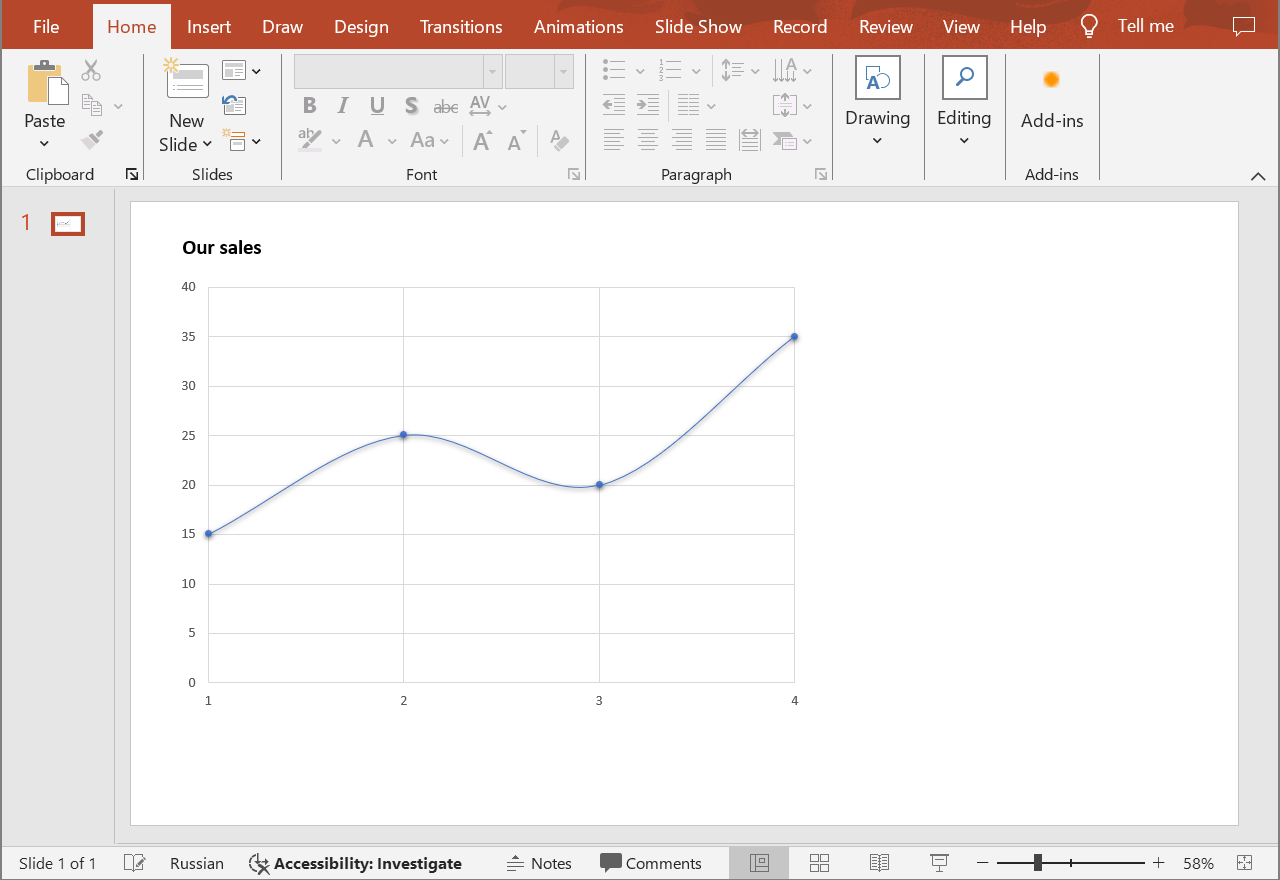
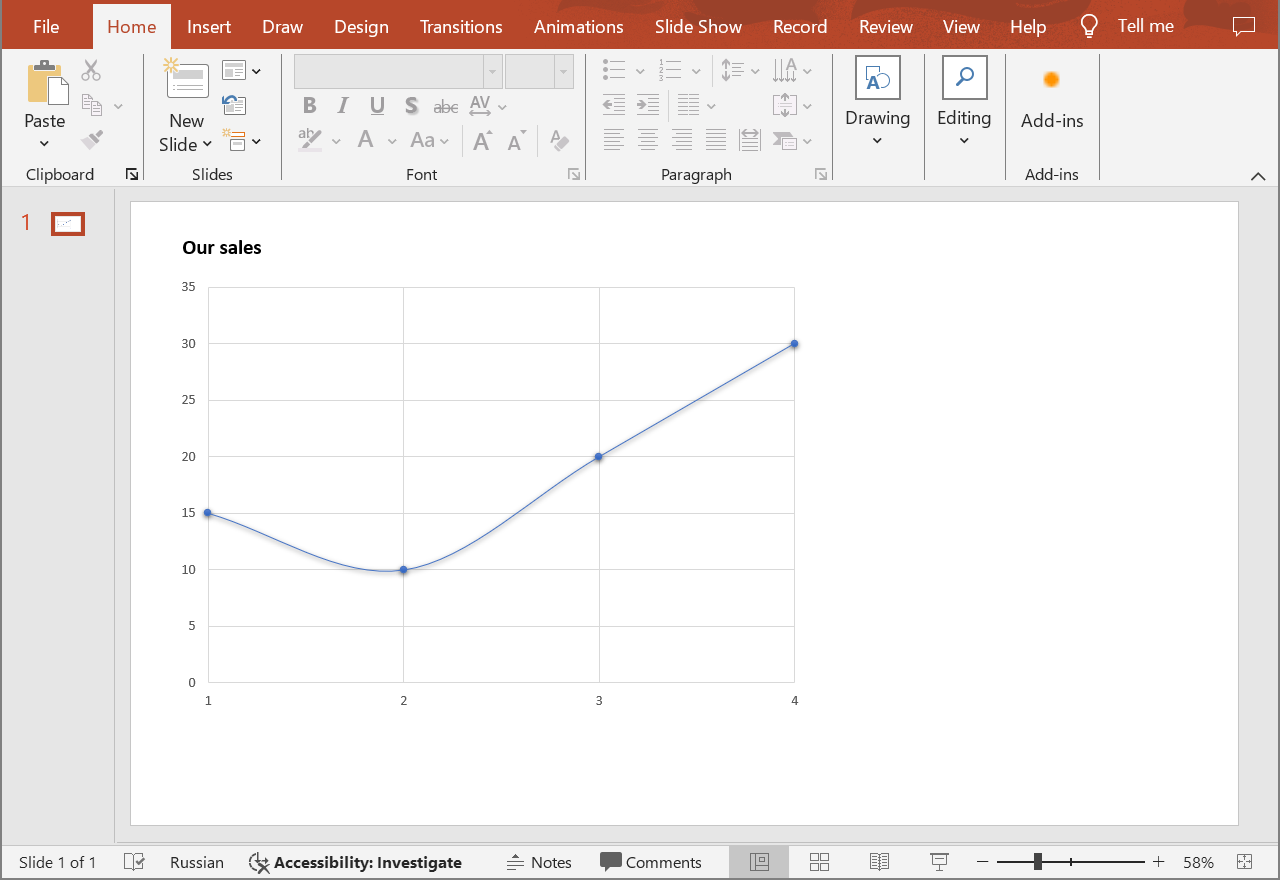
SLIDESCLOUDDOC-111 Corrections.

diff --git a/slides/developer-guide/working-with-charts/working-with-data-points/update-a-chart-data-point/_index.md b/slides/developer-guide/working-with-charts/working-with-data-points/update-a-chart-data-point/_index.md
@@ -33,7 +33,7 @@ In PowerPoint presentations, data points are individual values or specific piece
 
 ### **Examples**
 
-In the **default** storage, the document **MyPresentation.pptx** contains a scatter chart (the **second** shape) that displays the number of items sold for quarters 1 through 4 (**one** data series). Update the sales value for the **4th** quarter to **35** items.
+In the **default** storage, the document **MyPresentation.pptx** contains a scatter chart (the **second** shape) that displays the number of items sold for quarters 1 through 4 (**one** data series). Update the sales value for the **2nd** quarter to **10** items.
 
 {{% alert color="primary" %}}
 The referenced shape must be a chart, otherwise the operation will fail.
@@ -65,8 +65,8 @@ curl -X PUT "https://api.aspose.cloud/v3.0/slides/MyPresentation.pptx/slides/1/s
 DataPoint.json content:
 ```json
 {
-  "xValue": 4,
-  "yValue": 35
+  "xValue": 2,
+  "yValue": 10
 }
 ```
 
@@ -104,12 +104,12 @@ class Application
         int slideIndex = 1;
         int shapeIndex = 2;
         int seriesIndex = 1;
-        int pointIndex = 4;
+        int pointIndex = 2;
 
         ScatterChartDataPoint dataPoint = new ScatterChartDataPoint
         {
-            XValue = 4,
-            YValue = 35,
+            XValue = 2,
+            YValue = 10,
         };
 
         Chart chart = slidesApi.UpdateChartDataPoint(fileName, slideIndex, shapeIndex, seriesIndex, pointIndex, dataPoint);
@@ -140,11 +140,11 @@ public class Application {
         int slideIndex = 1;
         int shapeIndex = 2;
         int seriesIndex = 1;
-        int pointIndex = 4;
+        int pointIndex = 2;
 
         ScatterChartDataPoint dataPoint = new ScatterChartDataPoint();
-        dataPoint.setXvalue(4d);
-        dataPoint.setYvalue(35d);
+        dataPoint.setXvalue(2d);
+        dataPoint.setYvalue(10d);
 
         Chart chart = slidesApi.updateChartDataPoint(fileName, slideIndex, shapeIndex, seriesIndex, pointIndex, dataPoint, null, null, null);
 
@@ -174,11 +174,11 @@ $fileName = "MyPresentation.pptx";
 $slideIndex = 1;
 $shapeIndex = 2;
 $seriesIndex = 1;
-$pointIndex = 4;
+$pointIndex = 2;
 
 $dataPoint = new ScatterChartDataPoint();
-$dataPoint->setXvalue(4);
-$dataPoint->setYvalue(35);
+$dataPoint->setXvalue(2);
+$dataPoint->setYvalue(10);
 
 $chart = $slidesApi->updateChartDataPoint($fileName, $slideIndex, $shapeIndex, $seriesIndex, $pointIndex, $dataPoint);
 
@@ -205,11 +205,11 @@ file_name = "MyPresentation.pptx"
 slide_index = 1
 shape_index = 2
 series_index = 1
-point_index = 4
+point_index = 2
 
 data_point = ScatterChartDataPoint.new
-data_point.x_value = 4
-data_point.y_value = 35
+data_point.x_value = 2
+data_point.y_value = 10
 
 chart = slides_api.update_chart_data_point(file_name, slide_index, shape_index, series_index, point_index, data_point)
 
@@ -231,11 +231,11 @@ file_name = "MyPresentation.pptx"
 slide_index = 1
 shape_index = 2
 series_index = 1
-point_index = 4
+point_index = 2
 
 data_point = ScatterChartDataPoint()
-data_point.x_value = 4
-data_point.y_value = 35
+data_point.x_value = 2
+data_point.y_value = 10
 
 chart = slides_api.update_chart_data_point(file_name, slide_index, shape_index, series_index, point_index, data_point)
 
@@ -256,11 +256,11 @@ fileName = "MyPresentation.pptx";
 slideIndex = 1;
 shapeIndex = 2;
 seriesIndex = 1;
-pointIndex = 4;
+pointIndex = 2;
 
 dataPoint = new cloudSdk.ScatterChartDataPoint();
-dataPoint.xValue = 4;
-dataPoint.yValue = 35;
+dataPoint.xValue = 2;
+dataPoint.yValue = 10;
 
 slidesApi.updateChartDataPoint(fileName, slideIndex, shapeIndex, seriesIndex, pointIndex, dataPoint).then(chart => {
     dataPointCount = chart.body.series[0].dataPoints.length;
@@ -286,11 +286,11 @@ int main()
     int slideIndex = 1;
     int shapeIndex = 2;
     int seriesIndex = 1;
-    int pointIndex = 4;
+    int pointIndex = 2;
 
     std::shared_ptr<ScatterChartDataPoint> dataPoint = std::make_shared<ScatterChartDataPoint>();
-    dataPoint->setXValue(4);
-    dataPoint->setYValue(35);
+    dataPoint->setXValue(2);
+    dataPoint->setYValue(10);
 
     std::shared_ptr<Chart> chart = slidesApi->updateChartDataPoint(fileName, slideIndex, shapeIndex, seriesIndex, pointIndex, dataPoint).get();
 
@@ -319,11 +319,11 @@ my $file_name = "MyPresentation.pptx";
 my $slide_index = 1;
 my $shape_index = 2;
 my $series_index = 1;
-my $point_index = 4;
+my $point_index = 2;
 
 my $data_point = AsposeSlidesCloud::Object::ScatterChartDataPoint->new();
-$data_point->{x_value} = 4;
-$data_point->{y_value} = 35;
+$data_point->{x_value} = 2;
+$data_point->{y_value} = 10;
 
 my $chart = $slides_api->update_chart_data_point(
     name => $file_name, slide_index => $slide_index, shape_index => $shape_index, series_index => $series_index, point_index => $point_index, data_point => $data_point);
@@ -358,11 +358,11 @@ func main() {
 	var slideIndex int32 = 1
 	var shapeIndex int32 = 2
 	var seriesIndex int32 = 1
-	var pointIndex int32 = 4
+	var pointIndex int32 = 2
 
 	dataPoint := asposeslidescloud.NewScatterChartDataPoint()
-	dataPoint.XValue = 4
-	dataPoint.YValue = 35
+	dataPoint.XValue = 2
+	dataPoint.YValue = 10
 
 	chart, _, _ := slidesApi.UpdateChartDataPoint(fileName, slideIndex, shapeIndex, seriesIndex, pointIndex, dataPoint, "", "", "")
 
